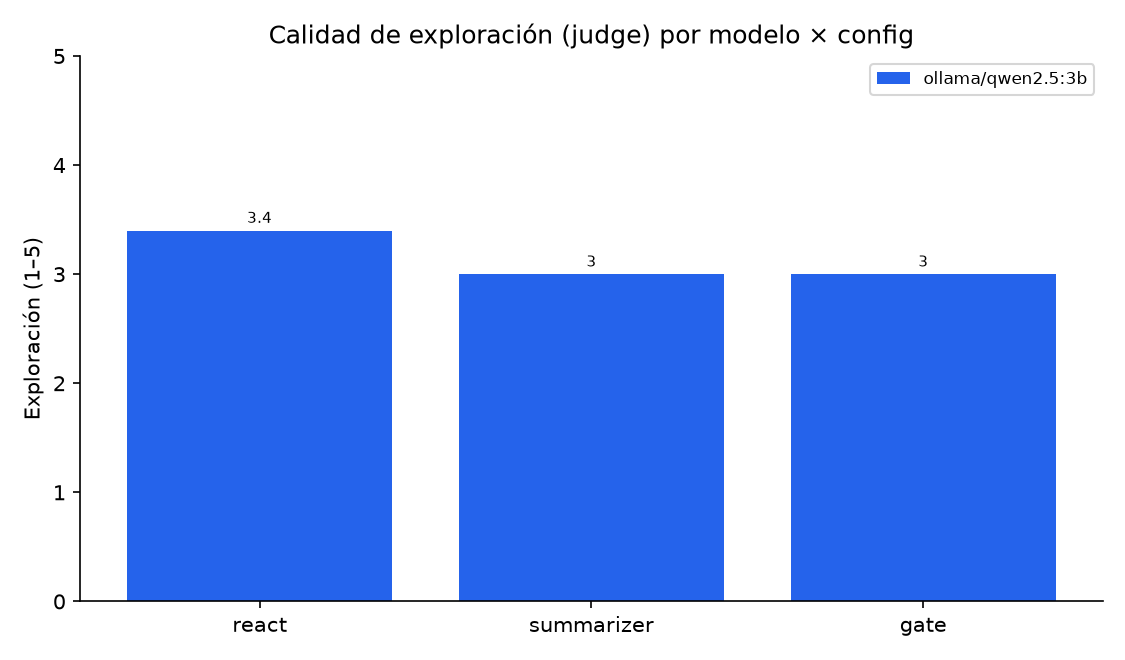
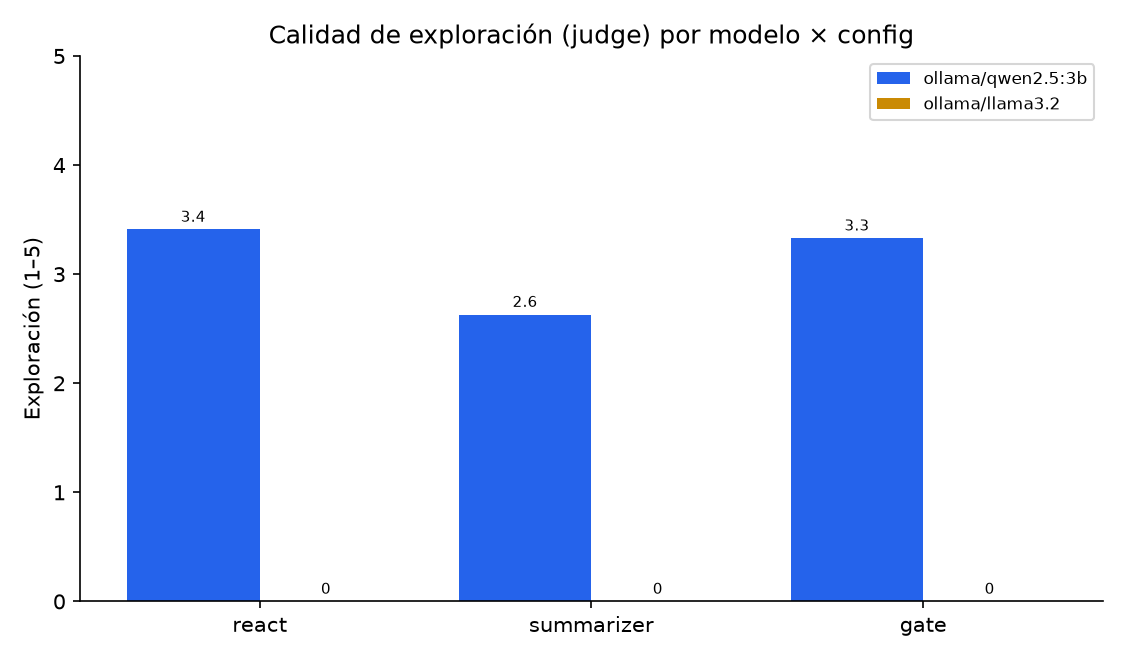
docs(m3): §3.5 comparación de 2 modelos (qwen vs llama3.2) — hallazgos fuertes
- Hallazgo 1: los modelos fallan DISTINTO. qwen falla por prosa (no actúa);
  llama3.2 por tool_errors (actúa pero inválido). El 0/8 esconde 2 patologías
  opuestas.
- Hallazgo 2: el efecto del resumen es DEPENDIENTE DEL MODELO. La única accuracy
  no-cero de toda la eval es llama3.2+summarizer (2/24). El resumen ayuda a un
  modelo que actúa y perjudica a uno que no -> la conclusión del Exp1 se invierte
  según el modelo. §4.1 reconciliado.
- Gráfico m3_cmp_accuracy con el único bar no-cero.

diff --git a/INFORME_M3.md b/INFORME_M3.md
@@ -222,15 +222,35 @@ Como los resultados de accuracy están acotados por el modelo, comparamos **el
 mismo framework sobre varios modelos** para separar *límites del modelo* de
 *límites del framework*. Cada corrida versiona su `provider`/`model`, y
 `scripts/comparar_modelos_m3.py` arma la comparativa a partir de todas las
-corridas presentes —basta correr un modelo nuevo y volver a ejecutarlo.
+corridas presentes —basta correr un modelo nuevo y volver a ejecutarlo. Corrimos
+`qwen2.5:3b` y `llama3.2` (Ollama, repeats-3); queda pendiente `nova-lite`
+(Bedrock, modelo fuerte).
 
-![Latencia p95 por modelo × configuración](docs/m3_cmp_latencia.png)
+**Hallazgo 1 — los dos modelos fallan de forma distinta.** No es el mismo 0/8:
 
-Modelos: `qwen2.5:3b` (Ollama, local) †; **pendiente** `nova-lite` (Bedrock,
-modelo fuerte) y `llama3.2` (Ollama). La lectura esperada: los efectos de los
-experimentos (costo del resumen, limpieza del gate) deberían **persistir entre
-modelos**, mientras que la **accuracy** debería subir con el modelo fuerte —lo
-que confirmaría que el 0/8 es del modelo, no del framework.
+| | `qwen2.5:3b` | `llama3.2` |
+|---|---|---|
+| Modo de fallo dominante | **prosa** (no actúa) | **tool_errors** (actúa, pero inválido) |
+| Uso de `use`/`go` | ~0 | usa `use` y `go`, pero con errores |
+
+`qwen` se queda en describir la acción; `llama3.2` sí la intenta pero se
+equivoca de objeto/argumento. **El "0/8" esconde dos patologías opuestas** —solo
+visibles porque medimos el comportamiento, no un número.
+
+**Hallazgo 2 — el efecto del resumen es *dependiente del modelo*.**
+
+![Accuracy por modelo × configuración](docs/m3_cmp_accuracy.png)
+
+La **única accuracy no-cero de toda la evaluación** es `llama3.2` + `summarizer`
+(**2/24 ≈ 0.083**). El resumen **ayuda** a un modelo que *actúa* (`llama3.2`:
+le da estado para no repetir), pero **perjudica** a uno que *no actúa*
+(`qwen`: §4.1, más latencia y loops, sin beneficio). Es decir, **la conclusión
+del Experimento 1 se invierte según el modelo** —un resultado que un solo modelo
+habría ocultado, y el argumento más fuerte para la comparación cross-modelo.
+
+La lectura para Bedrock: con un modelo que llame herramientas de forma
+confiable, esperamos que la accuracy despegue y que estos efectos
+(costo/limpieza/beneficio del resumen) se puedan medir sobre casos resueltos.
 
 ### 3.6 Observabilidad: perfil de comportamiento
 
@@ -299,10 +319,13 @@ estudio (los demás quedan fijos).
   la parte "ayuda en `extreme-archive`" de la hipótesis: con este modelo el
   agente falla **aguas arriba** (prosa) y nunca llega a desbordar el contexto,
   que es donde el resumen pagaría.
-- **Conclusión.** En este régimen el resumen es **costo puro**: confirma la
-  primera mitad de la hipótesis (*perjudica cuando el contexto crudo entra*). La
-  segunda mitad queda para un modelo que sí llame herramientas (Bedrock). Motiva
-  el **summarizer selectivo** de §5.
+- **Conclusión.** Con `qwen2.5:3b` el resumen es **costo puro** (perjudica). Pero
+  el efecto es **dependiente del modelo**: con `llama3.2` —que sí actúa— el
+  resumen **ayuda** y da la única accuracy no-cero de la evaluación (2/24, §3.5).
+  La lectura no es "el resumen es malo" sino "el resumen ayuda a un modelo que
+  actúa y estorba a uno que no" —lo que motiva el **summarizer selectivo** de §5.
+  La comparación cross-modelo fue clave para no sacar la conclusión equivocada
+  desde un solo modelo.
 
 ### 4.2 Experimento 2 — Gate determinístico (gate on/off)
 
